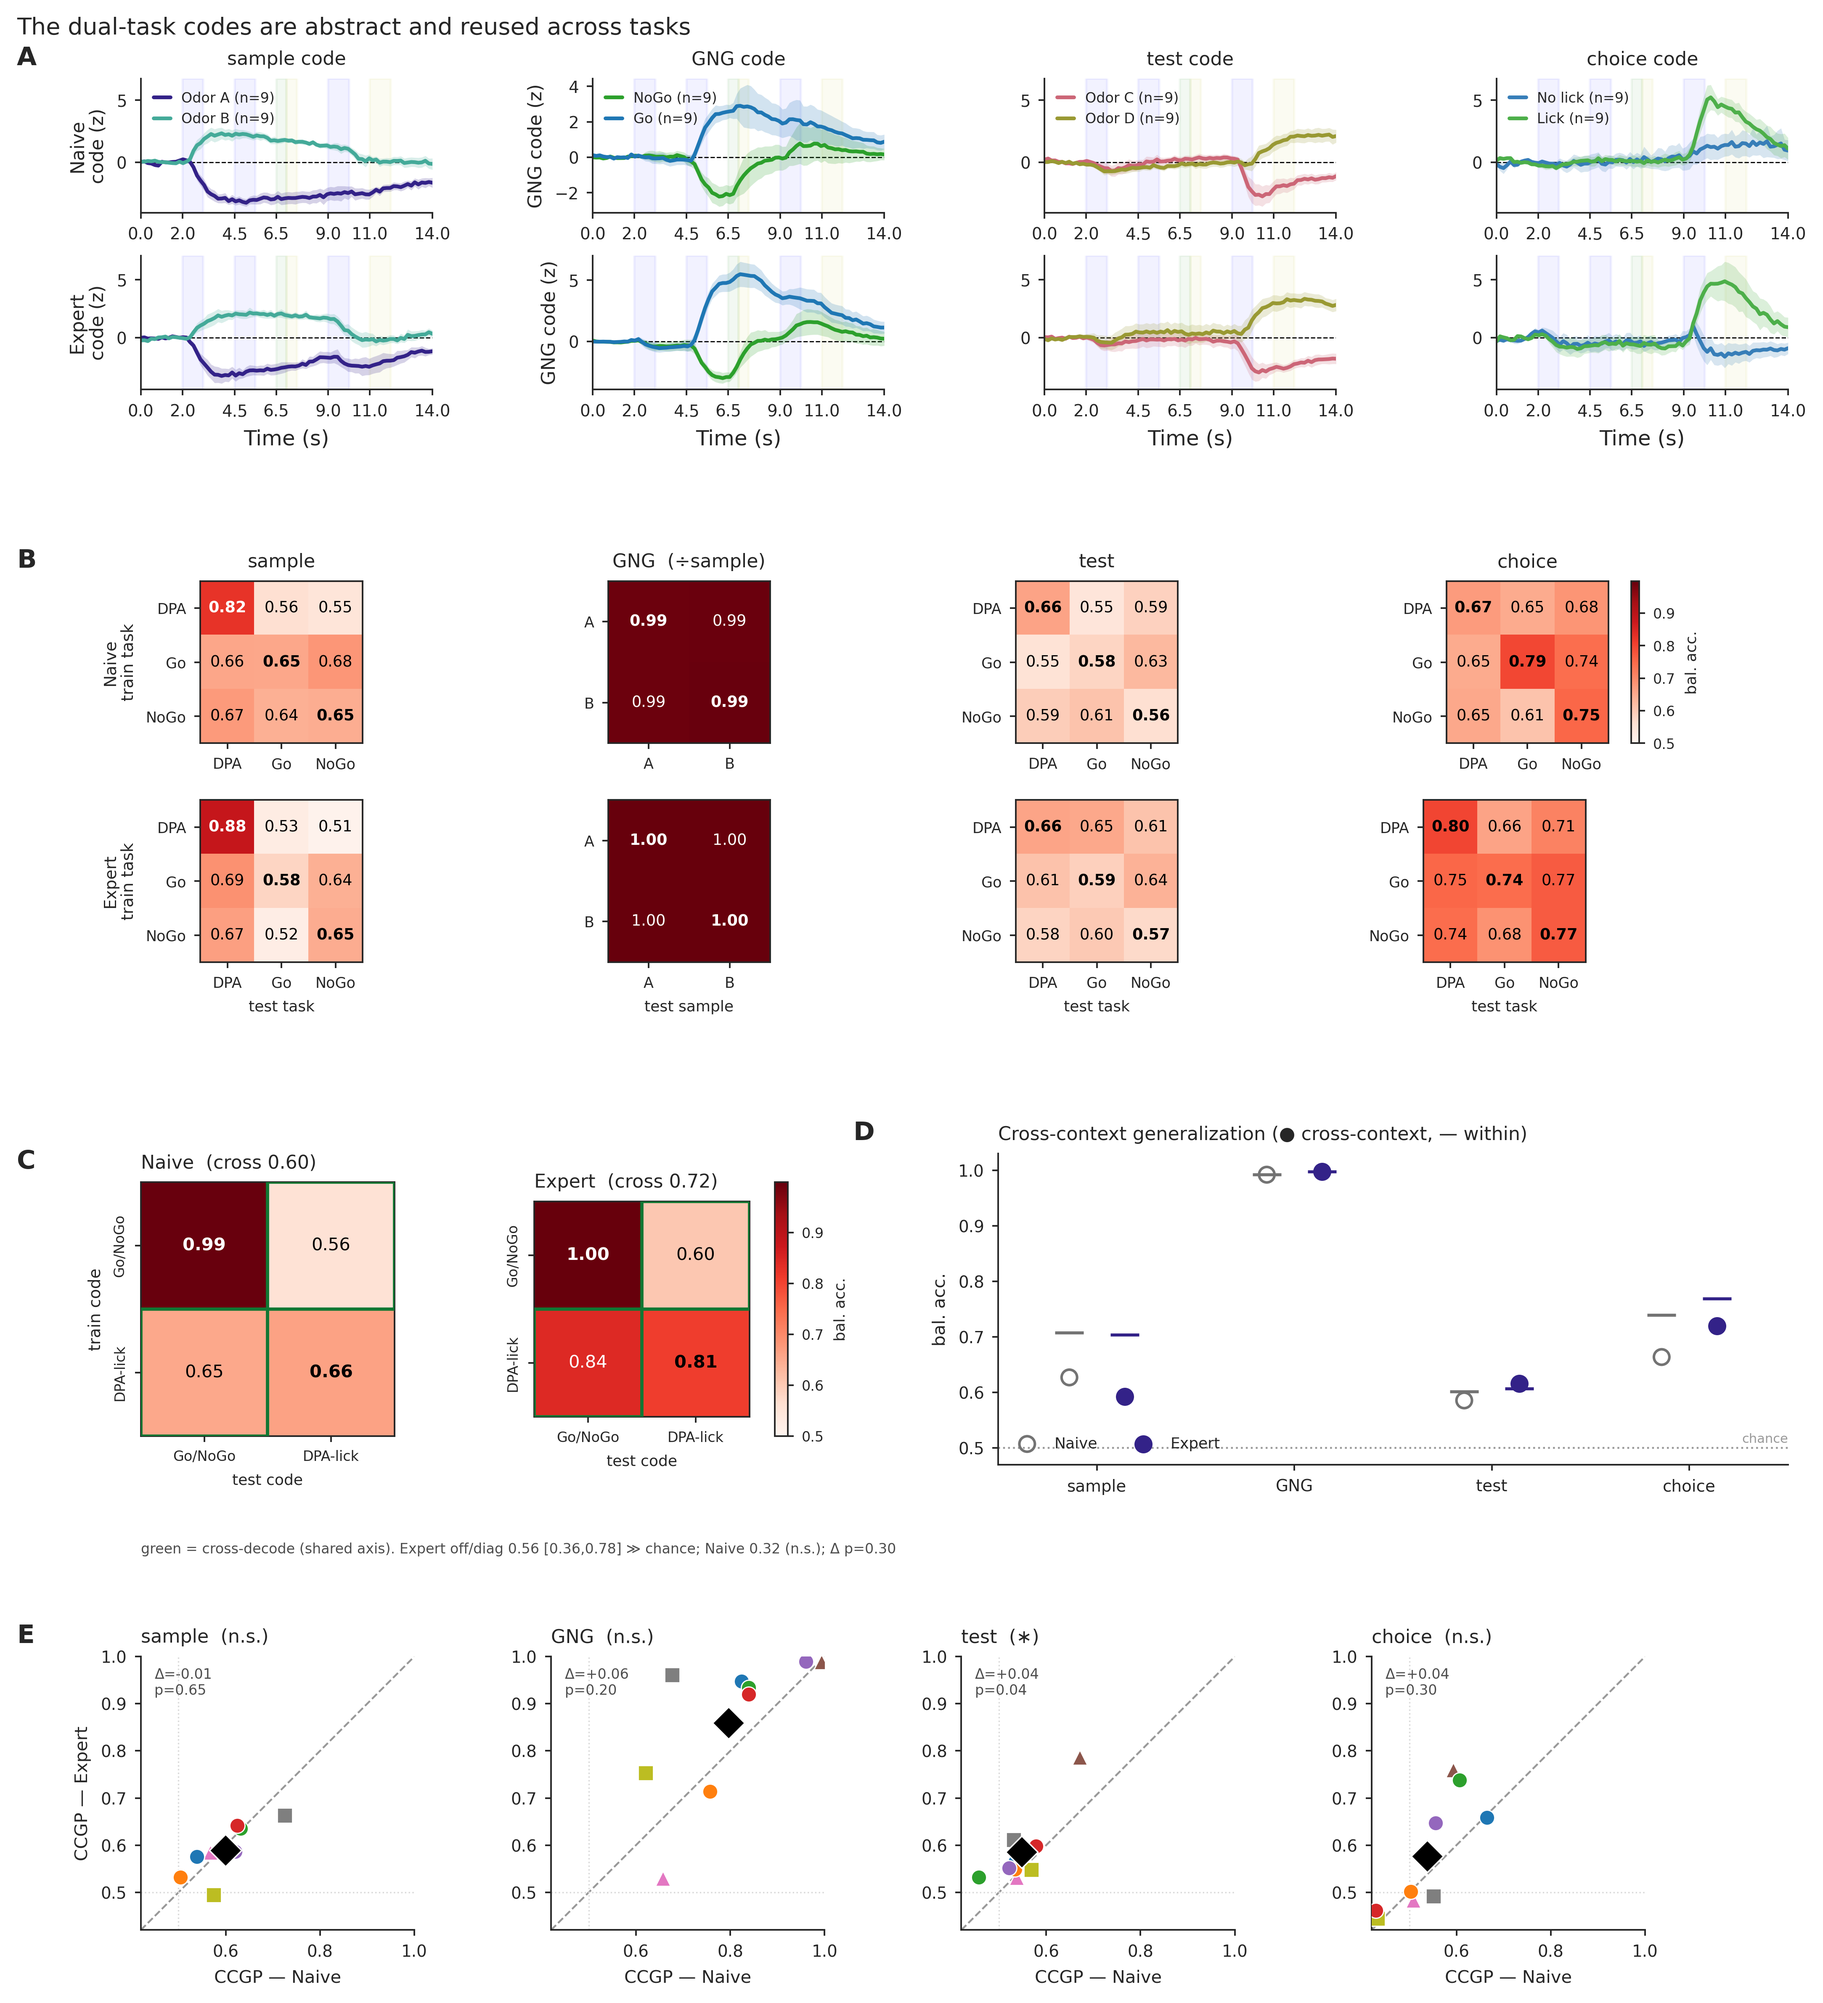
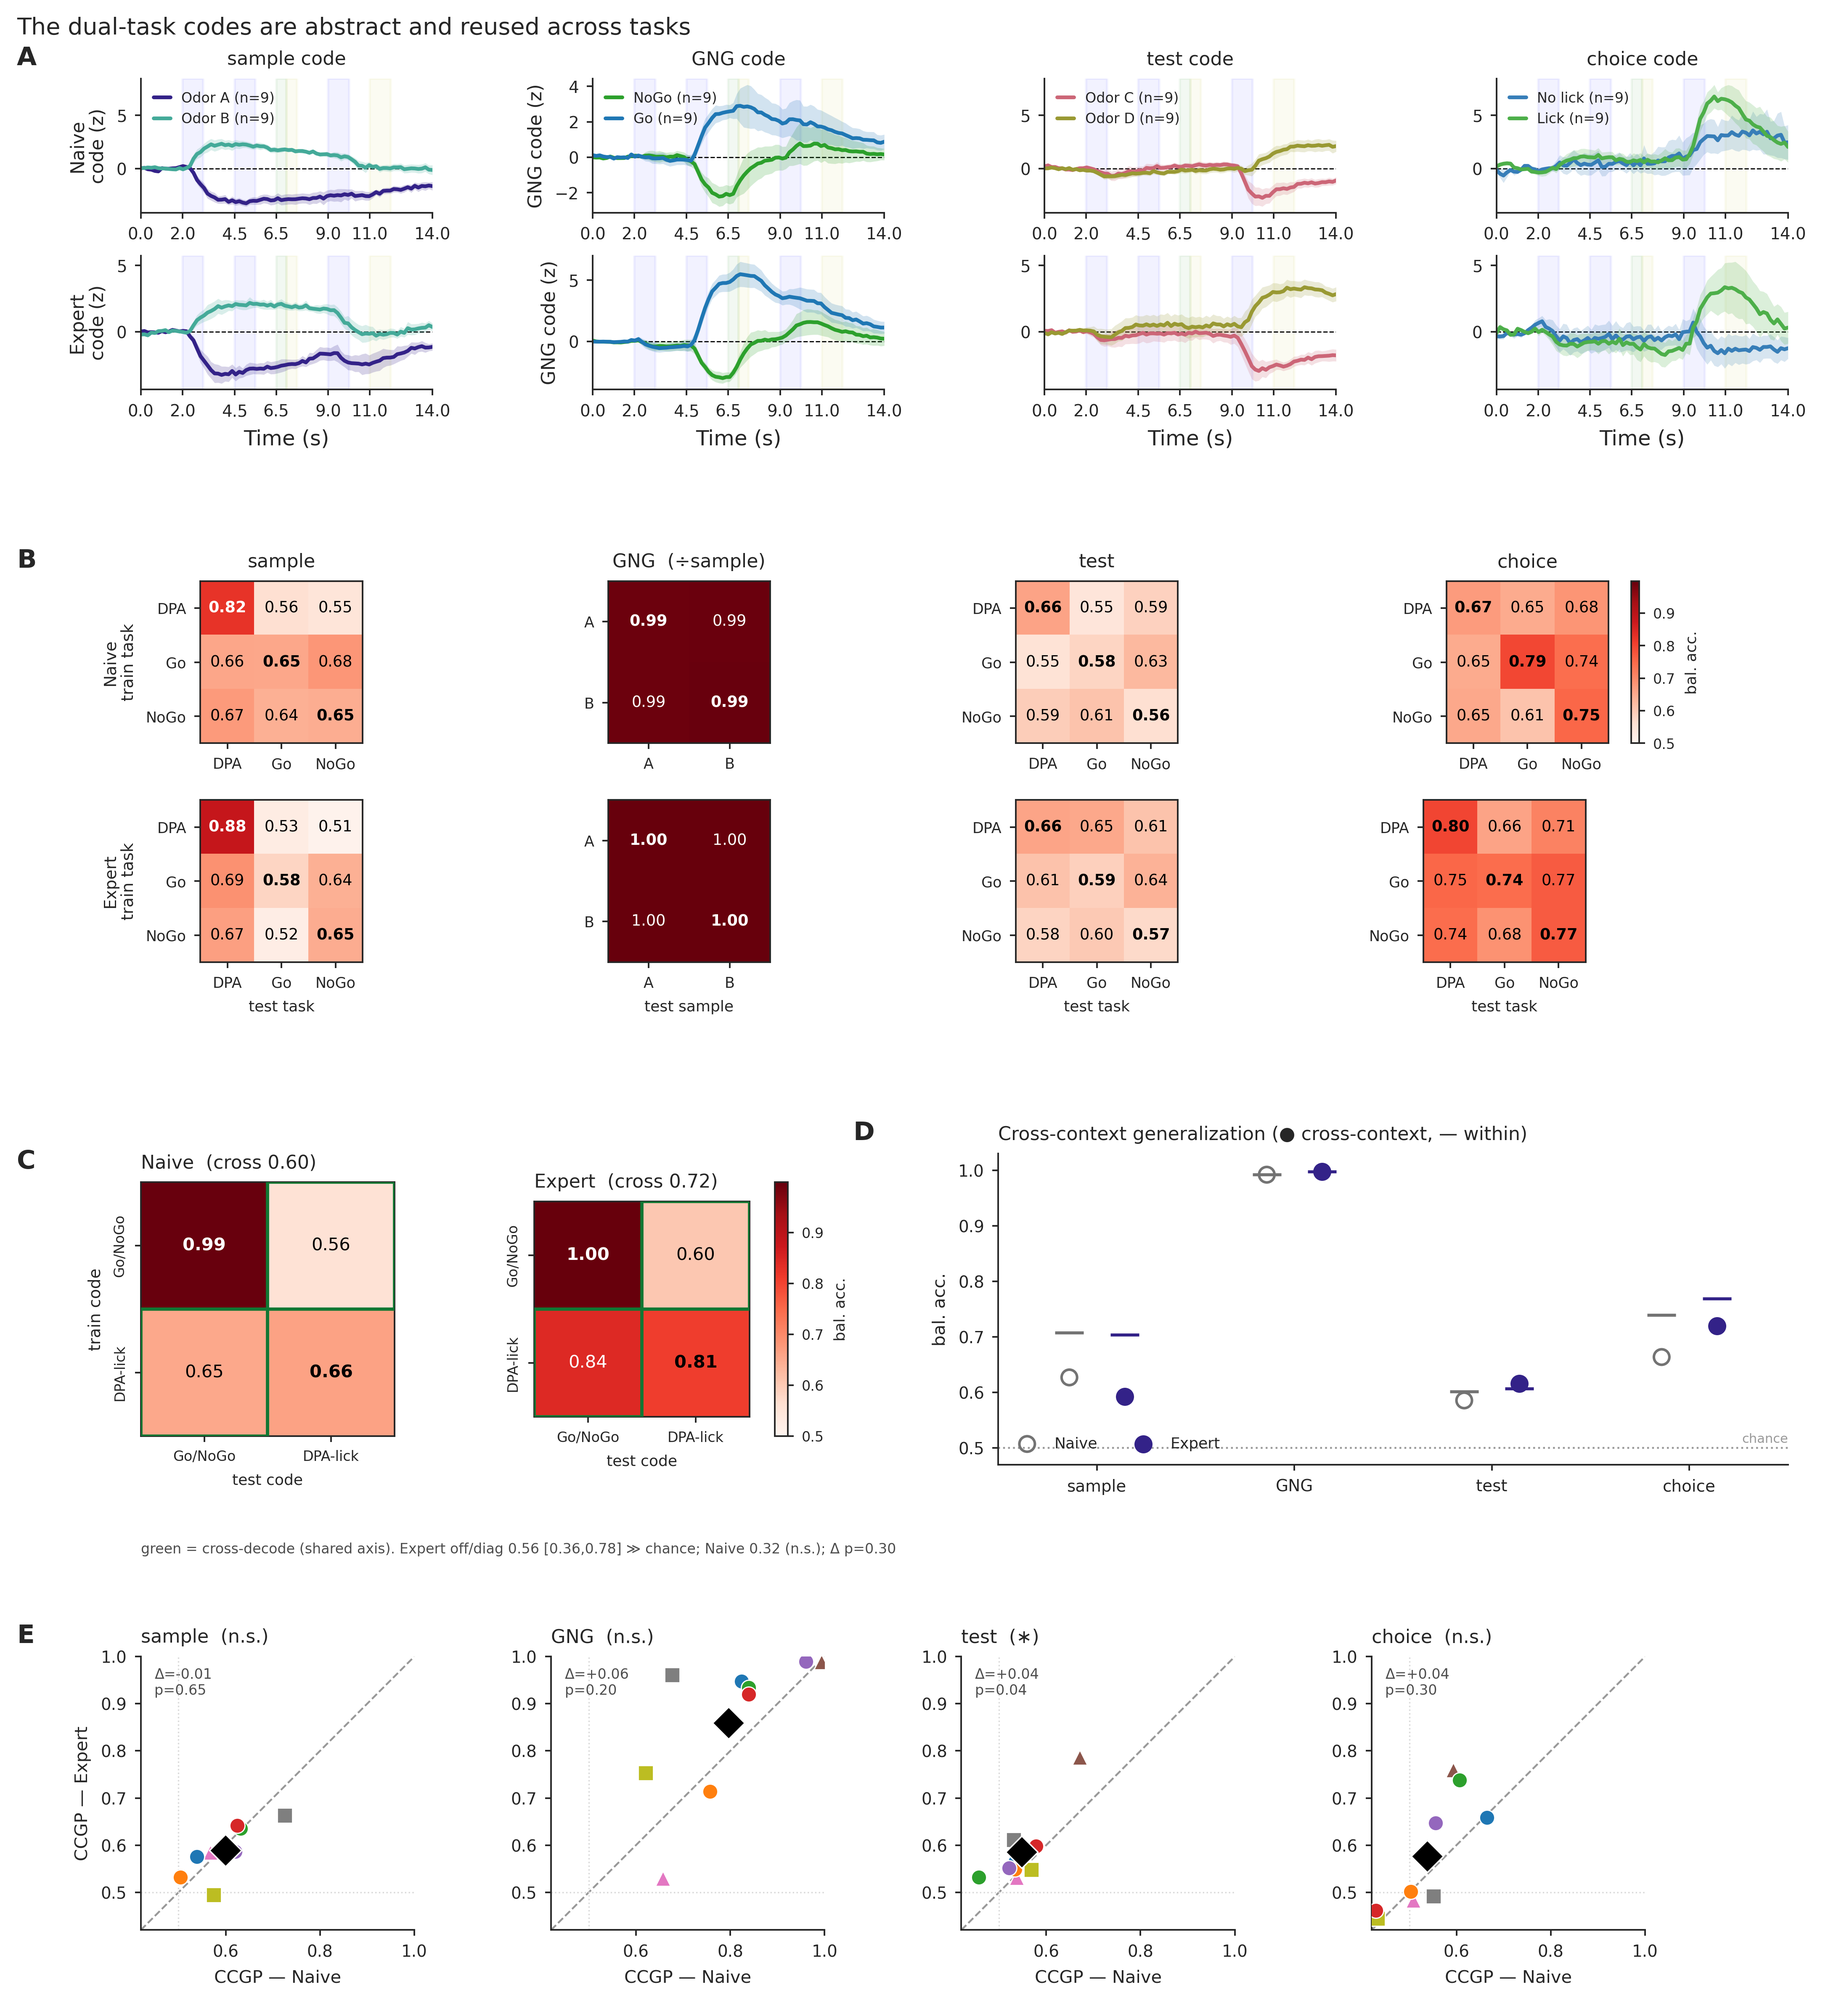
overlaps: default Fig 3 + Fig 4 to the 48-62 action axis (axis consistency)
Both main figures now default to the single anticipatory+action axis
(DPA choice decoder @ bins 48-62), so "the action axis" is consistent across
the paper:
- Fig 4 (fig_overlaps_main_native.py): 48-62 + robust sample-sep units +
  trial-level odor-A random-slope LMM (was 57-63 pooled-evoked). All three
  panels significant: push p=.032, coupling rho=-.68 p=.042 (DPA-specific),
  FA/CR AD p=.045.
- Fig 3 (fig_overlaps_manifold.py): 48-62 axis (pooled-evoked; the traces /
  d' / shared-action cosine don't need robust units). Affects panel A's choice
  trace and panel C's shared-action cosine.

Each figure injects its flag(s) at import (scoped per-figure, so main_panels'
global default stays off and no cross-figure leak) and keeps the CANONICAL
filename; pass --legacy for the old 57-63 build (-> fig_overlaps_*_legacy).
serve_figures MAIN updated (dropped the redundant "Fig 4 (alt)" card, noted the
axis on Fig 3/Fig 4); removed the orphaned _antact/_antact_robust PNGs.

Claude-Session: https://claude.ai/code/session_014C5FayLYaQfdBBbGQSqtn3

diff --git a/overlaps/fig_overlaps_manifold.py b/overlaps/fig_overlaps_manifold.py
@@ -18,6 +18,9 @@ Bridges Fig 2 (low-dimensional, factorised) to Fig 4 (learning repositions the s
 Panel A reuses the code builders from main_panels.py; panels B/C/D read cached arrays
 (figures/overlaps/ccgp/matrices_cache_acc.pkl, from fig_ccgp_matrices_pseudo.py --acc); panel E reads
 permouse_ccgp_cache.pkl (fig_ccgp.py). Output figures/overlaps/manifold/{png,svg}/fig_overlaps_manifold.{png,svg}
+DEFAULT axis (2026-08-06) = 48-62 (choice/action window), consistent with Fig 4 (fig_overlaps_main_native.py);
+pass --legacy for the old 57-63 axis (→ fig_overlaps_manifold_legacy). Affects panel A's choice trace and panel
+C's shared-action cosine (both read the DPA action axis).
 """
 import sys, os, warnings, pickle
 warnings.filterwarnings('ignore')
@@ -26,6 +29,13 @@ sys.path.insert(0, '/home/leon/dual/')
 import numpy as np, pandas as pd
 import seaborn as sns, matplotlib.pyplot as plt
 from scipy.stats import wilcoxon
+
+# Fig 3 DEFAULTS to the 48-62 action axis (--antact) for consistency with Fig 4 (pooled-evoked: the traces /
+# d′ / shared-action cosine don't need robust units). Pass --legacy for the old 57-63 axis. Injected before
+# importing main_panels (parses sys.argv at import); scoped to THIS figure so main_panels' global default is off.
+_LEGACY = '--legacy' in sys.argv[1:]
+if not _LEGACY and '--antact' not in sys.argv:
+    sys.argv.append('--antact')
 
 # Pull main_panels' data + code builders (traces) into globals (renders nothing).
 import main_panels as _MP
@@ -220,8 +230,9 @@ if __name__ == '__main__':
     fig.suptitle('The dual-task codes are abstract and reused across tasks', x=0.008, ha='left',
                  y=0.975, fontsize=10)
     OUT = 'figures/overlaps/manifold'
+    _SUF = '_legacy' if _LEGACY else ''                                    # default → canonical fig_overlaps_manifold.png (48-62); --legacy → _legacy (57-63)
     for s in ('png', 'svg'):
         os.makedirs(f'{OUT}/{s}', exist_ok=True)
-    fig.savefig(f'{OUT}/png/fig_overlaps_manifold.png', bbox_inches='tight')
-    fig.savefig(f'{OUT}/svg/fig_overlaps_manifold.svg', bbox_inches='tight')
-    print('saved', os.path.abspath(f'{OUT}/png/fig_overlaps_manifold.png'))
+    fig.savefig(f'{OUT}/png/fig_overlaps_manifold{_SUF}.png', bbox_inches='tight')
+    fig.savefig(f'{OUT}/svg/fig_overlaps_manifold{_SUF}.svg', bbox_inches='tight')
+    print('saved', os.path.abspath(f'{OUT}/png/fig_overlaps_manifold{_SUF}.png'))

diff --git a/overlaps/fig_overlaps_main_native.py b/overlaps/fig_overlaps_main_native.py
@@ -15,17 +15,34 @@ Run:  cd /home/leon/dual/overlaps
       /home/leon/mambaforge/envs/dual/bin/python fig_overlaps_main_native.py
 Output: figures/overlaps/main/{png,svg}/fig_overlaps_main_ab_dpaact.{png,svg}
 
+DEFAULT build (2026-08-06) = single anticipatory+action axis (choice @ bins 48-62) + robust sample-separation
+units + trial-level odor-A random-slope LMM. This is the settled Fig-4 convention and matches Fig 3's axis
+(fig_overlaps_manifold.py also defaults to 48-62). Pass --legacy for the old 57-63 pooled-evoked build
+(→ fig_overlaps_main_ab_dpaact_legacy).
+
 See main_panels.py for the full analysis/method docstring and the --eqnorm/--testwin/--l1/--lda/--cv10/
---ld/--ld05/--gngact flags (parsed at import from sys.argv).
+--ld/--ld05/--gngact/--antact/--robust flags (parsed at import from sys.argv).
 """
 import sys, os
 os.chdir(os.path.dirname(os.path.abspath(__file__)))
 sys.path.insert(0, '/home/leon/dual/')
 
+# Fig 4 DEFAULTS to the settled build (2026-08-06): single anticipatory+action axis (bins 48-62) + robust
+# sample-separation units + trial-level odor-A random-slope LMM. Pass --legacy for the old 57-63 pooled-evoked
+# build. Injected here because main_panels parses sys.argv AT IMPORT; scoped to THIS figure so the shared
+# main_panels / manifold figure defaults are unchanged.
+_LEGACY = '--legacy' in sys.argv[1:]
+if not _LEGACY:
+    for _f in ('--antact', '--robust'):
+        if _f not in sys.argv:
+            sys.argv.append(_f)
+
 # Import the module: loads the tensors, applies the uniform normalisation, and defines every panel builder
 # (renders nothing). Pull ALL of its module-level names into this script's globals so the assembly reads as before.
 import main_panels as _MP
 globals().update({k: v for k, v in vars(_MP).items() if not k.startswith("__")})
+# Keep the CANONICAL Fig-4 filename for the (new) default build; --legacy writes a distinct _legacy file.
+FILE_SUF = (FILE_SUF + '_legacy') if _LEGACY else FILE_SUF.replace('_antact', '').replace('_robust', '')
 
 
 if __name__ == '__main__':

diff --git a/serve_figures.py b/serve_figures.py
@@ -39,12 +39,10 @@ MAIN = [
      'overlaps/figures/overlaps/behavior/png/behavior_main.png'),
     ('Fig 2 — dPCA: low-dimensional & factorised',
      'pca/figures/pseudo/story/png/fig_dpca_story_main.png'),
-    ('Fig 3 — manifold: abstract & reused across tasks ★NEW',
+    ('Fig 3 — manifold: abstract & reused across tasks (48–62 action axis)',
      'overlaps/figures/overlaps/manifold/png/fig_overlaps_manifold.png'),
-    ('Fig 4 — push / repositioning on the manifold (overlaps)',
+    ('Fig 4 — push / repositioning (48–62 action axis, robust units, random-slope LMM)',
      'overlaps/figures/overlaps/main/png/fig_overlaps_main_ab_dpaact.png'),
-    ('Fig 4 (alt) — push on the anticipatory+action axis, robust units + random-slope LMM ★NEW',
-     'overlaps/figures/overlaps/main/png/fig_overlaps_main_ab_dpaact_antact_robust.png'),
     ('Fig 5 — behaviour / opto (ACC→Prl silencing)',
      'overlaps/figures/overlaps/behavior/png/behavior_opto_main.png'),
 ]
